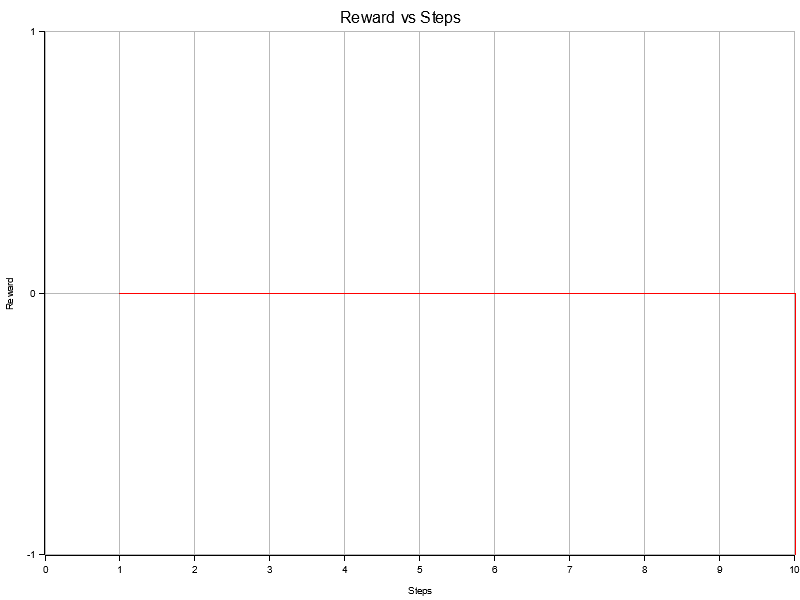
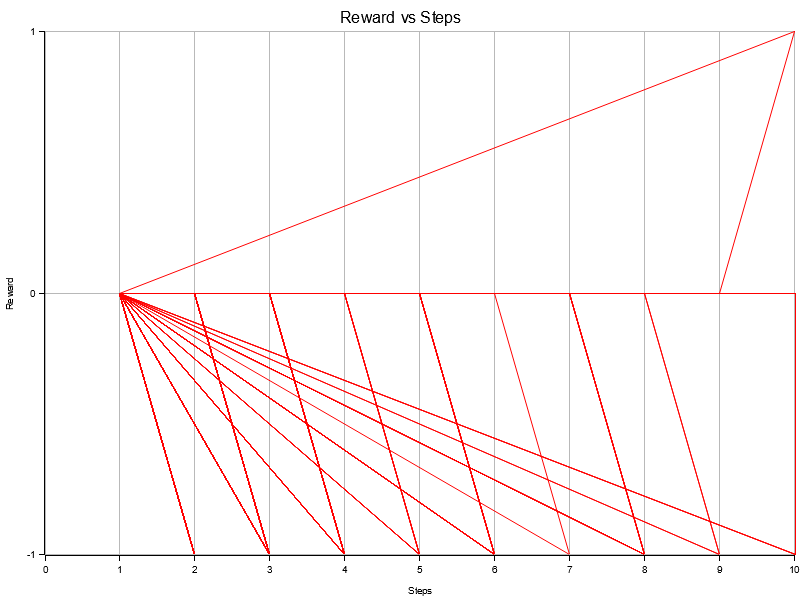
Transitions matrix

diff --git a/src/main.rs b/src/main.rs
@@ -1,7 +1,7 @@
 use std::collections::HashMap;
 use rand::Rng;
 use plotters::prelude::*;
-use ndarray::{array, Array2};
+use ndarray::{array, Array2, Axis};
 use gtk::{prelude::*, gio};
 use gtk::{glib, Application, ApplicationWindow, Button, Image};
 
@@ -104,9 +104,30 @@ fn simulate() {
     ('G', 1),
   ]);
 
+  let mut transition_prob = Array2::<f32>::zeros((states.len(), actions.len()));
+  // # actions = rows
+  // # states = columns
+  //        North South East West
+  // Start [                     ]
+  // Free  [                     ]
+  // Hole  [                     ]
+  // Goal  [                     ]
+  for mut row in transition_prob.axis_iter_mut(Axis(0)) {
+    let p = 1.0 / (row.len() as f32);
+    for e in row.iter_mut() {
+      *e = p;
+    }
+  }
+  // for row in transition_prob.rows() {
+  //   let p = 1.0 / (actions.len() as f32);
+  //   for e in row {
+  //     e = p;
+  //   }
+  // }
+
   let mut rng = rand::thread_rng();
   // let final_state = 'G';
-  let max_iter = 1;
+  let max_iter = 100;
   let mut data_points = Vec::new();
 
   for i in 0..max_iter {
@@ -117,12 +138,49 @@ fn simulate() {
     'steps: loop {
       step += 1;
 
-      let p = rng.gen_range(0..actions.len());
-      let random_action = actions[p];
+      let p: f32 = rng.gen();
+      // let random_action = actions[p];
+      let current_state = gw.get(loc).unwrap().clone();
+      let state_id = states.iter().position(|&c| c == current_state).unwrap();
+      let mut cumulative_prob = 0.0;
+      let mut next_action_id = None;
+
+      for (i, &weight) in transition_prob.row(state_id).iter().enumerate() {
+        cumulative_prob += weight;
+        if p <= cumulative_prob {
+          next_action_id = Some(i);
+          break;
+        }
+      }
+
+      match next_action_id {
+        Some(action) => {
+          println!("Randomly selected action: {}", action);
+        }
+        None => {
+          println!("No action selected. Check your weights.");
+        }
+      }
+      let random_action = actions[next_action_id.unwrap()];
+
       loc = gw.perform_motion(loc, random_action);
       let state: &char = gw.get(loc).unwrap();
       
-      let step_reward = reward_map.get(state).unwrap();
+      let step_reward = reward_map.get(state).unwrap().clone();
+      if step_reward != 0 {
+        let triggered_prob = transition_prob.get((state_id, next_action_id.unwrap())).unwrap();
+        let delta = triggered_prob / 2.0;
+        let delta_rem = delta / ((actions.len() - 1) as f32);
+        let mut row = transition_prob.row_mut(state_id);
+        for (i, e) in row.indexed_iter_mut() {
+          if i == next_action_id.unwrap() {
+            *e += delta;
+          } else {
+            *e -= delta_rem;
+          }
+        }
+
+      }
       data_points.push((step, step_reward.clone()));
       reward += step_reward;
       println!("step ({}) {} {} = {} | {} ... {}", 
